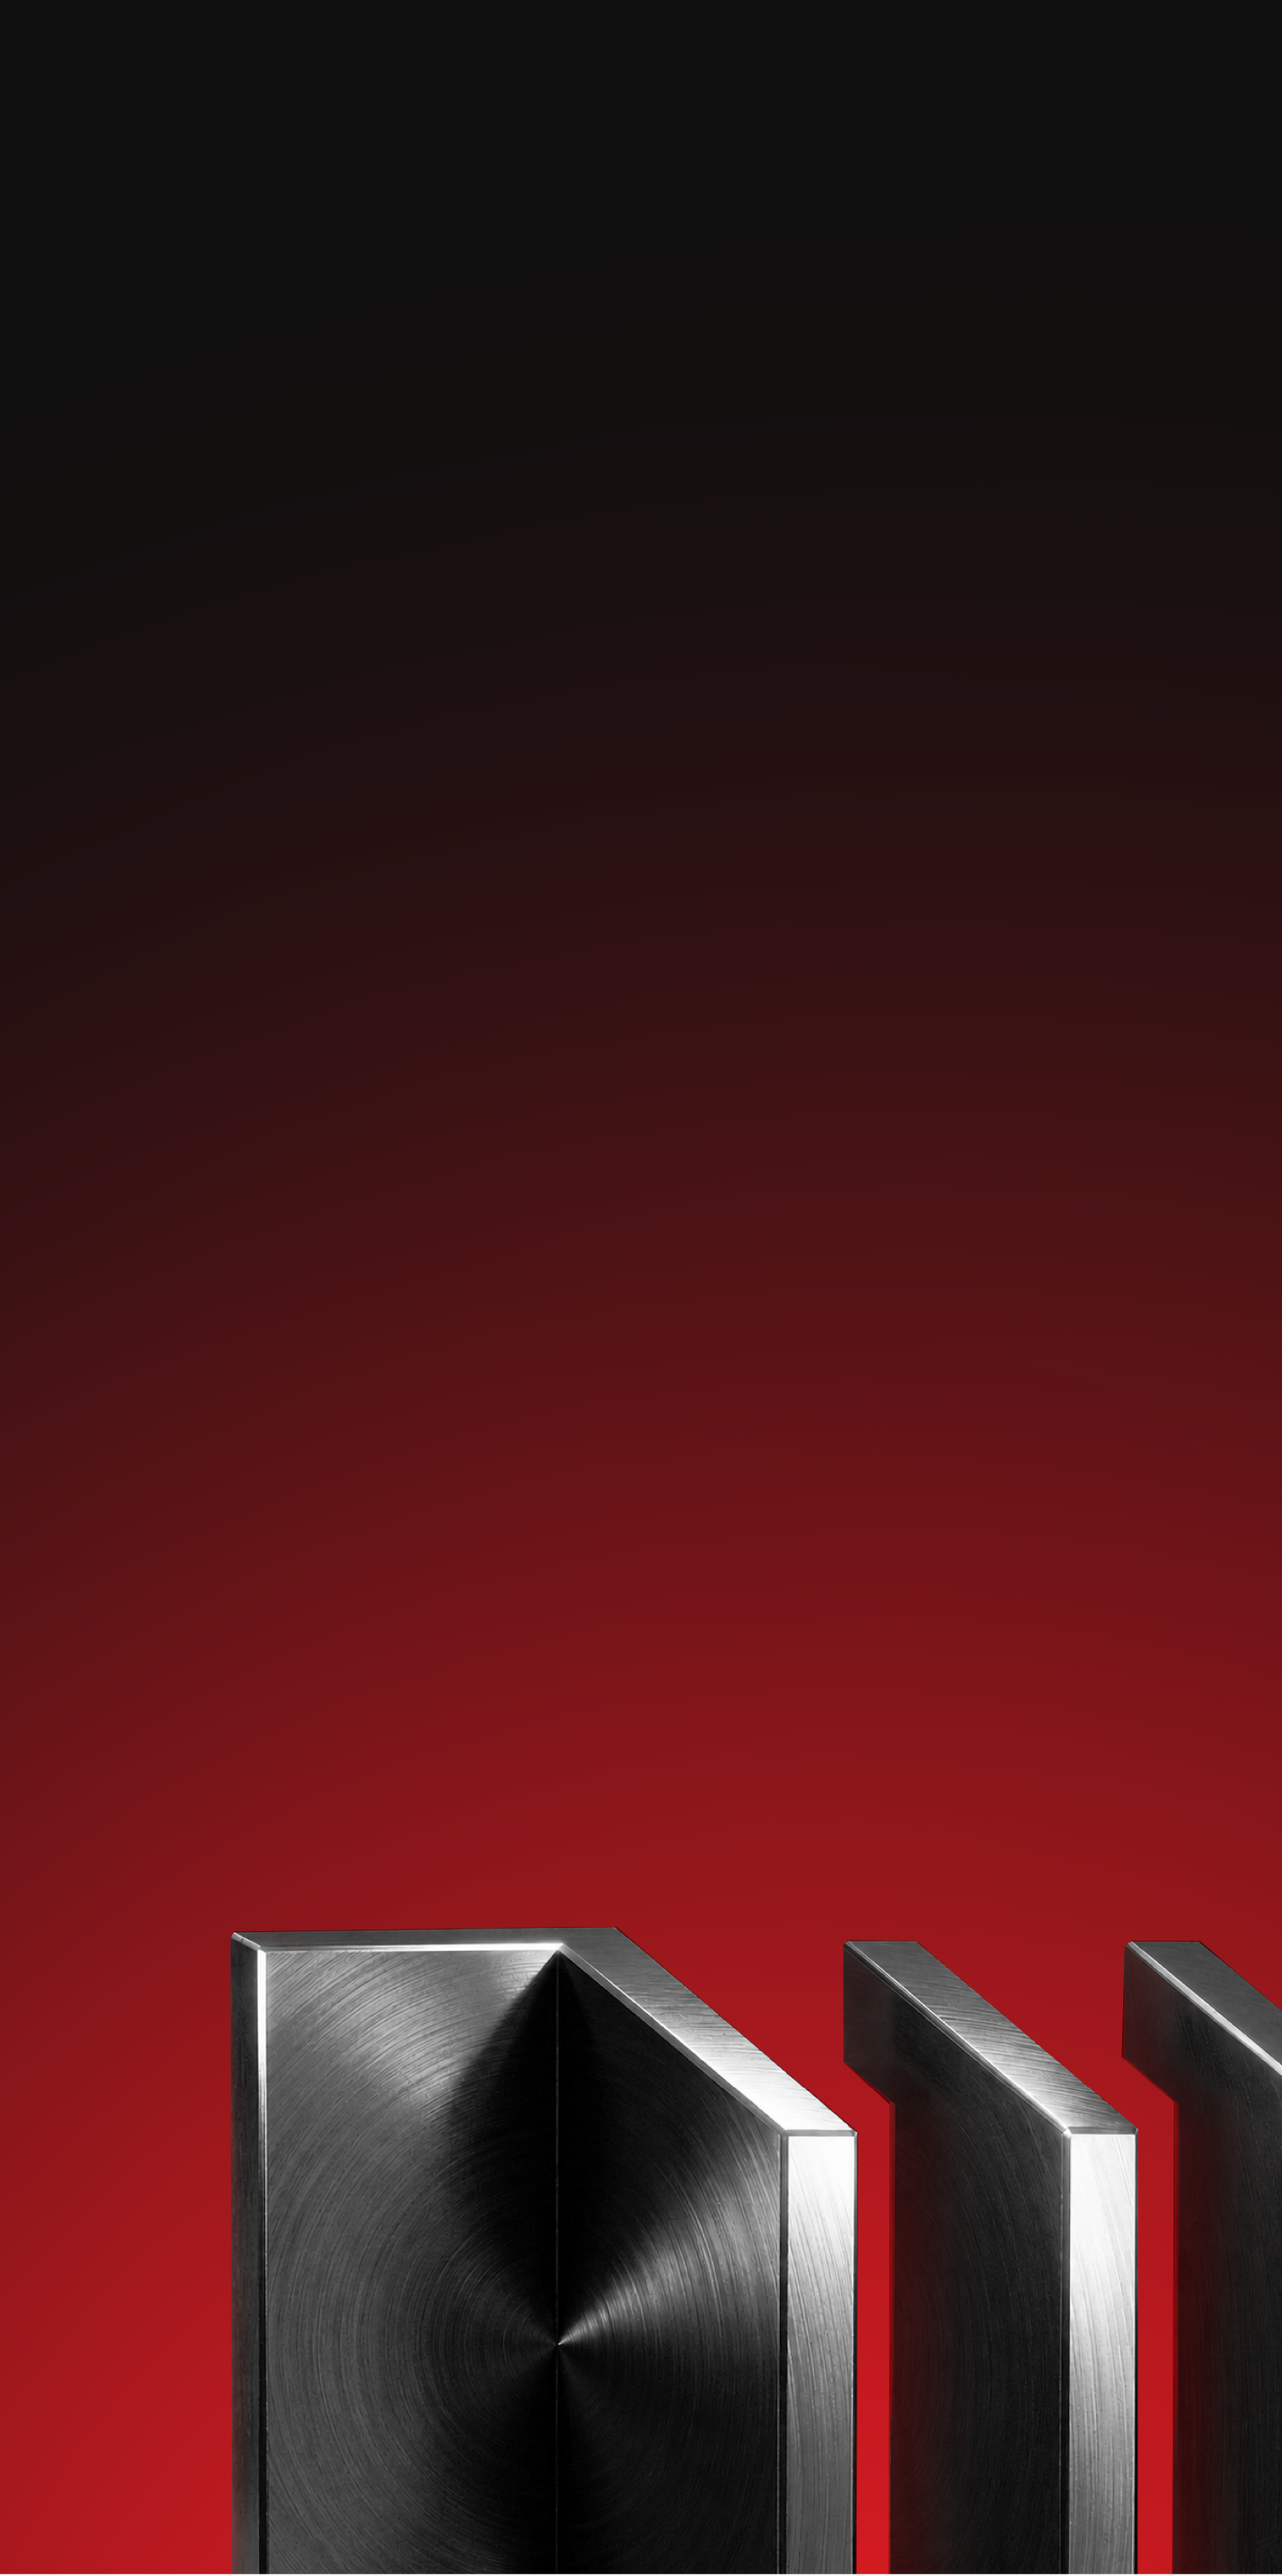
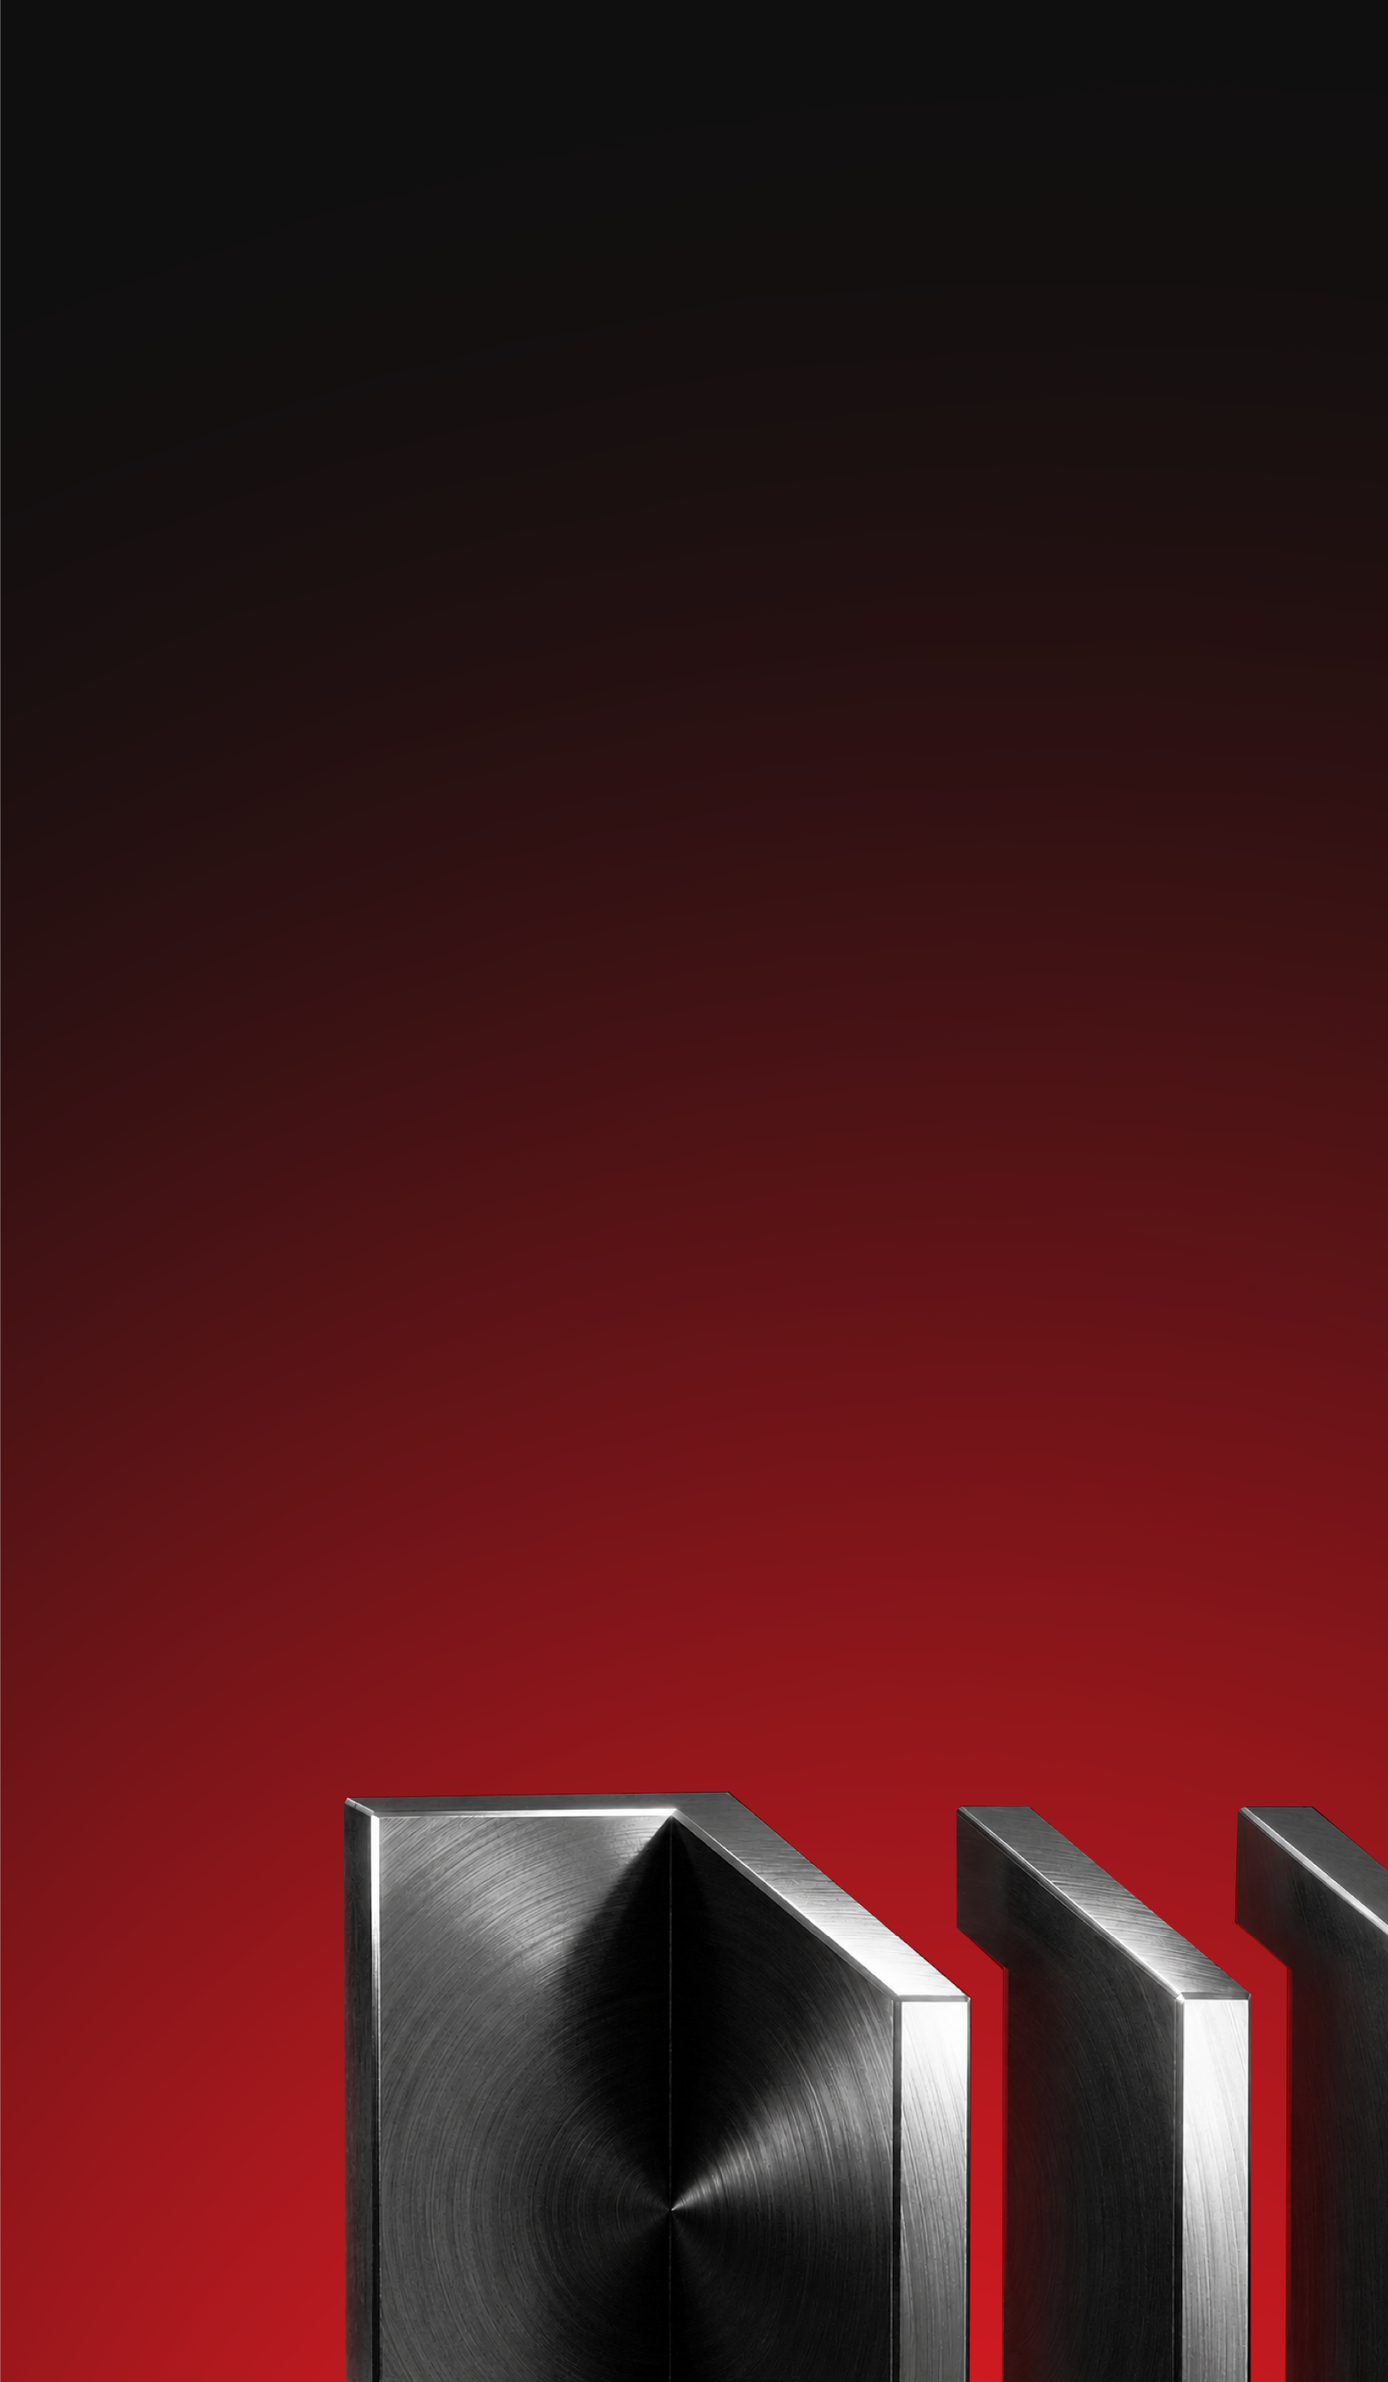
style: match coming soon layout to updated desktop and mobile specs

Changed region(s): [[0.0, 0.7487, 1.0, 1.0], [0.95, 0.7798, 1.0, 0.811]]

diff --git a/modules/coming-soon/components/coming-soon-page.tsx b/modules/coming-soon/components/coming-soon-page.tsx
@@ -76,7 +76,7 @@ function ComingSoonBackground() {
         {...rest}
         alt=""
         srcSet={mobile}
-        className="h-full w-full object-cover object-top"
+        className="h-[calc(100%+50px)] w-full -translate-y-[50px] object-cover object-top"
       />
     </picture>
   );
@@ -84,35 +84,35 @@ function ComingSoonBackground() {
 
 export function ComingSoonPage() {
   return (
-    <div className="min-h-screen bg-background lg:flex lg:items-start lg:justify-center">
-      <div className="relative flex min-h-screen w-full flex-col overflow-hidden bg-transparent text-foreground max-lg:min-h-[800px] lg:h-[1180px] lg:min-h-0 lg:max-w-[1920px]">
+    <div className="min-h-screen bg-background">
+      <div className="relative flex min-h-screen w-full flex-col overflow-hidden bg-transparent text-foreground max-lg:min-h-[750px]">
         <ComingSoonBackground />
 
         <header className="absolute inset-x-0 top-0 z-10 flex h-[56px] shrink-0 items-center justify-between bg-transparent px-[20px] lg:h-[96px] lg:px-[80px]">
           <ComingSoonLogo
-            className="h-[16.5px] w-[100.3px] lg:h-[40px] lg:w-[279.6px]"
+            className="h-[19.5px] w-[119px] shrink-0 lg:h-[38px] lg:w-[231px]"
             preload
           />
           <a
             href="#"
-            className="inline-flex items-center bg-transparent text-[8px] font-normal uppercase text-[var(--du-white)] transition-colors duration-150 hover:text-[var(--du-grey)] lg:h-[40px] lg:px-6 lg:text-[20px]"
+            className="inline-flex shrink-0 items-center bg-transparent text-[9px] font-normal uppercase text-[var(--du-white)] transition-colors duration-150 hover:text-[var(--du-grey)] lg:text-[14px]"
           >
             Contact us
           </a>
         </header>
 
-        <main className="relative z-10 flex flex-col px-[20px] pt-[173px] lg:px-[80px] lg:pt-[353px] lg:pb-[297px]">
-          <p className="text-[19px] font-medium uppercase leading-none text-primary lg:text-[38px]">
+        <main className="relative z-10 flex flex-col px-[20px] pt-[160px] lg:px-[80px] lg:pt-[190px]">
+          <p className="text-[19px] font-medium uppercase leading-none text-primary lg:text-[26px]">
             Built beyond steel
           </p>
 
-          <h1 className="mt-[9px] font-heading text-[49px] font-medium uppercase leading-[49px] text-[color:var(--du-white)] lg:mt-[26px] lg:h-[170px] lg:text-[96px] lg:leading-[85px]">
+          <h1 className="mt-[17px] font-heading text-[49px] font-medium uppercase leading-[49px] text-[color:var(--du-white)] lg:mt-[17px] lg:h-[117px] lg:text-[67px] lg:leading-[62px]">
             Coming
             <br />
             Soon
           </h1>
 
-          <p className="mt-[21px] max-w-[320px] text-[11px] font-normal leading-[14px] text-foreground lg:mt-[26px] lg:max-w-[560px] lg:text-[24px] lg:leading-[32px]">
+          <p className="mt-[17px] max-w-[320px] text-[11px] font-normal leading-[14px] text-foreground lg:mt-[17px] lg:max-w-[375px] lg:text-[16px] lg:leading-[22px]">
             Our site is under construction, but our facilities are fully
             operational. Contact us today for all metal and steel manufacturing
             inquiries.
@@ -120,23 +120,23 @@ export function ComingSoonPage() {
 
           <a
             href={`mailto:${INQUIRY_EMAIL}`}
-            className="mt-[8px] inline-flex h-[28px] w-[83px] items-center justify-center bg-primary text-[10px] font-normal uppercase text-primary-foreground transition-opacity hover:opacity-90 lg:mt-[26px] lg:h-[48px] lg:w-[144px] lg:text-[18px] lg:font-medium"
+            className="mt-[17px] inline-flex h-[28px] w-[83px] items-center justify-center bg-primary text-[10px] font-medium uppercase text-primary-foreground transition-opacity hover:opacity-90 lg:mt-[17px] lg:h-[33px] lg:w-[101px] lg:text-[12px]"
           >
             Send inquiry
           </a>
         </main>
 
-        <footer className="relative z-10 mt-auto flex h-[80px] shrink-0 items-center justify-between bg-background px-[20px] lg:mt-0 lg:h-[100px] lg:px-[80px]">
+        <footer className="relative z-10 mt-auto flex h-[80px] shrink-0 items-center justify-between bg-background px-[20px] lg:h-[100px] lg:px-[80px]">
           <div className="flex flex-col justify-center gap-0.5 lg:gap-1">
-            <ComingSoonLogo className="h-[16.5px] w-[100.3px] lg:h-[32px] lg:w-[195px]" />
-            <p className="text-[8px] font-normal text-foreground lg:text-[12px]">
+            <ComingSoonLogo className="h-[16.5px] w-[101px] lg:h-[26px] lg:w-[159px]" />
+            <p className="text-[8px] font-normal text-foreground lg:text-[10px]">
               ©2026 All rights reserved.
             </p>
           </div>
 
           <nav
             aria-label="Social media"
-            className="flex items-center gap-3 lg:gap-5"
+            className="flex items-center gap-3 lg:gap-4"
           >
             {SOCIAL_LINKS.map((link) => {
               const Icon = socialIcons[link.name];
@@ -147,7 +147,13 @@ export function ComingSoonPage() {
                   aria-label={link.name}
                   className="text-primary transition-opacity hover:opacity-80"
                 >
-                  <Icon className="h-4 w-4 lg:h-6 lg:w-6" />
+                  <Icon
+                    className={
+                      link.name === "Instagram"
+                        ? "h-4 w-4 shrink-0 lg:h-5 lg:w-5"
+                        : "h-4 w-auto shrink-0 lg:h-5"
+                    }
+                  />
                 </a>
               );
             })}

diff --git a/modules/coming-soon/components/social-icons.tsx b/modules/coming-soon/components/social-icons.tsx
@@ -4,16 +4,16 @@ type IconProps = SVGProps<SVGSVGElement>;
 
 export function FacebookIcon(props: IconProps) {
   return (
-    <svg viewBox="0 0 24 24" fill="currentColor" aria-hidden {...props}>
-      <path d="M24 12.073C24 5.405 18.627 0 12 0S0 5.405 0 12.073C0 18.1 4.388 23.094 10.125 24v-8.437H7.078v-3.49h3.047V9.43c0-3.007 1.792-4.669 4.533-4.669 1.312 0 2.686.235 2.686.235v2.953H15.83c-1.491 0-1.956.925-1.956 1.874v2.25h3.328l-.532 3.49h-2.796V24C19.612 23.094 24 18.1 24 12.073z" />
+    <svg viewBox="0 0 320 512" fill="currentColor" aria-hidden {...props}>
+      <path d="M80 299.3V512h116V299.3h86.5l18-97.8H196V157.9c0-26.8 9.1-50.2 51.6-50.2H313V6.1S260.4 0 225.4 0C141.7 0 89.2 48.3 89.2 136.7v64.8H7.7v97.8H89.2z" />
     </svg>
   );
 }
 
 export function LinkedInIcon(props: IconProps) {
   return (
-    <svg viewBox="0 0 24 24" fill="currentColor" aria-hidden {...props}>
-      <path d="M20.447 20.452h-3.554v-5.569c0-1.328-.027-3.037-1.852-3.037-1.853 0-2.136 1.445-2.136 2.939v5.667H9.351V9h3.414v1.561h.046c.477-.9 1.637-1.85 3.37-1.85 3.601 0 4.267 2.37 4.267 5.455v6.286zM5.337 7.433a2.062 2.062 0 01-2.063-2.065 2.064 2.064 0 112.063 2.065zm1.782 13.019H3.555V9h3.564v11.452zM22.225 0H1.771C.792 0 0 .774 0 1.729v20.542C0 23.227.792 24 1.771 24h20.451C23.2 24 24 23.227 24 22.271V1.729C24 .774 23.2 0 22.222 0h.003z" />
+    <svg viewBox="0 0 448 512" fill="currentColor" aria-hidden {...props}>
+      <path d="M100.28 448H7.4V148.9h92.88zM53.79 108.1C24.09 108.1 0 83.5 0 53.8a53.79 53.79 0 0 1 107.58 0c0 29.7-24.1 54.3-53.79 54.3zM447.9 448h-92.68V302.4c0-34.7-.7-79.2-48.29-79.2-48.29 0-55.69 37.7-55.69 76.7V448h-92.78V148.9h89.08v40.8h1.3c12.4-23.5 42.69-48.3 87.88-48.3 94 0 111.28 61.9 111.28 142.3V448z" />
     </svg>
   );
 }
